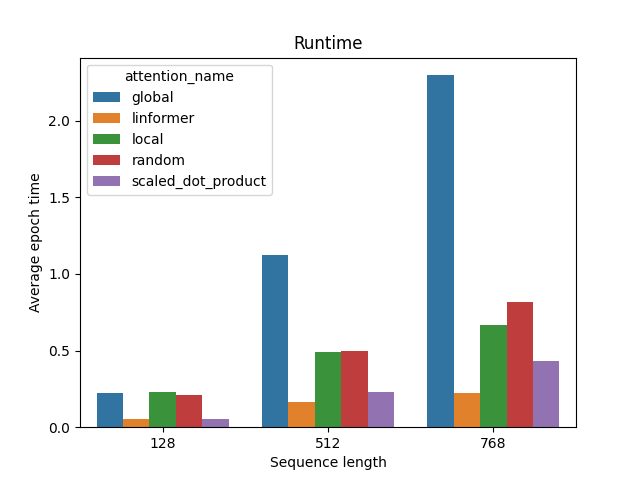
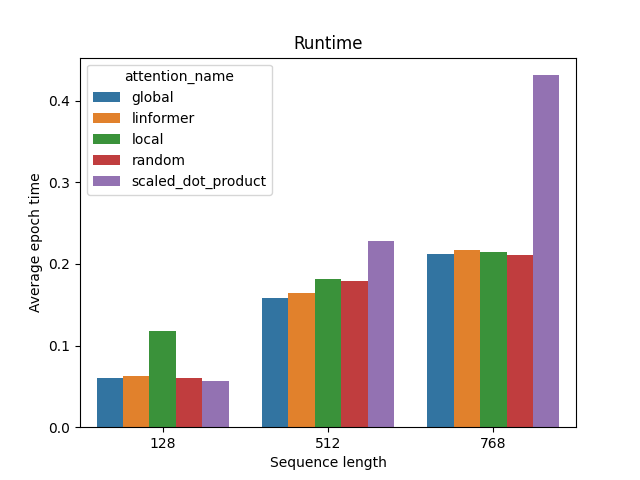
Enable sputnik in xformers blocks (#72)
* Enable sputnik kernels in xformers blocks

* Revert to previous value for density threshold

So that plots can be comparable, as the global attention depends on density_threshold for benchmarks

* Default device is now CPU

diff --git a/xformers/components/attention/global_tokens.py b/xformers/components/attention/global_tokens.py
@@ -5,9 +5,9 @@ import torch
 import torch.nn as nn
 
 from xformers.components.attention import (
-    _DENSITY_THRESHOLD,
     Attention,
     AttentionConfig,
+    maybe_sparsify,
     register_attention,
 )
 from xformers.components.attention.attention_patterns import global_token_pattern
@@ -52,12 +52,7 @@ class GlobalAttention(Attention):
 
         self.attn_drop = nn.Dropout(dropout, inplace=False)
         self.attention_mask = global_token_pattern(attention_query_mask[:, 0])
-        # Sparsity threshold, below which having a sparse matrix is more efficient
-        if (
-            torch.count_nonzero(self.attention_mask) / self.attention_mask.numel()
-            < _DENSITY_THRESHOLD
-        ):
-            self.attention_mask = self.attention_mask.to_sparse()
+        self.attention_mask = maybe_sparsify(self.attention_mask)
 
     def _adapt_mask_to_batch(self, q: torch.Tensor):
         # Make sure that the mask is on the right device, and has the right dimensions

diff --git a/xformers/components/attention/__init__.py b/xformers/components/attention/__init__.py
@@ -1,8 +1,11 @@
 from pathlib import Path
 from typing import Any, Dict
 
+import torch
+
 from xformers.utils import import_all_modules
 
+from ._sputnik_sparse import SparseCS
 from .base import Attention, AttentionConfig  # noqa
 
 # Credits: Classy Vision registry mechanism
@@ -13,6 +16,7 @@ ATTENTION_CLASS_NAMES = set()
 # Arbitrary threshold for now,
 # in between dense and sparse matrix algorithms for the attention mechanism
 _DENSITY_THRESHOLD = 0.05  # noqa
+_USE_SPUTNIK = True
 
 
 def build_attention(config: AttentionConfig):
@@ -63,6 +67,15 @@ def register_attention(name):
         return cls
 
     return register_attention_cls
+
+
+def maybe_sparsify(matrix):
+    # Sparsify if that makes sense
+    if torch.count_nonzero(matrix).item() / matrix.numel() > _DENSITY_THRESHOLD:
+        return matrix
+    if _USE_SPUTNIK:
+        return SparseCS(matrix)
+    return matrix.to_sparse()
 
 
 from .global_tokens import GlobalAttention  # noqa

diff --git a/xformers/components/attention/_sputnik_sparse.py b/xformers/components/attention/_sputnik_sparse.py
@@ -121,9 +121,13 @@ class _spmm(torch.autograd.Function):
 
 
 class SparseCS:
-    def __init__(self, matrix, device):
+    def __init__(self, matrix, device=None):
+        if device is None:
+            device = torch.device("cpu")
         if isinstance(matrix, torch.Tensor):
             matrix = matrix.cpu().numpy()
+        if matrix.ndim == 2:
+            matrix = matrix[None]
         assert matrix.ndim == 3
         (
             self.values,
@@ -140,6 +144,10 @@ class SparseCS:
         self._transp_info = _get_transpose_info(
             m, n, self.row_indices, self.row_offsets, self.column_indices
         )
+
+    @property
+    def device(self):
+        return self.values.device
 
     @classmethod
     def wrap(

diff --git a/xformers/components/attention/random.py b/xformers/components/attention/random.py
@@ -5,9 +5,9 @@ import torch
 import torch.nn as nn
 
 from xformers.components.attention import (
-    _DENSITY_THRESHOLD,
     Attention,
     AttentionConfig,
+    maybe_sparsify,
     register_attention,
 )
 from xformers.components.attention.attention_patterns import random_pattern
@@ -53,10 +53,7 @@ class RandomAttention(Attention):
     def _get_rand_mask(self, shape: torch.Size) -> torch.Tensor:
         sparsity = 1 - self.r
         mask = random_pattern(shape[1], sparsity=sparsity)
-
-        # Sparsity threshold, below that having a sparse matrix is more efficient
-        if self.r < _DENSITY_THRESHOLD:
-            mask = mask.to_sparse()
+        mask = maybe_sparsify(mask)
 
         return mask
 

diff --git a/xformers/components/attention/local.py b/xformers/components/attention/local.py
@@ -5,9 +5,9 @@ import torch
 import torch.nn as nn
 
 from xformers.components.attention import (
-    _DENSITY_THRESHOLD,
     Attention,
     AttentionConfig,
+    maybe_sparsify,
     register_attention,
 )
 from xformers.components.attention.attention_patterns import (
@@ -75,9 +75,7 @@ class LocalAttention(Attention):
         if self.causal:
             mask &= causal_1d_pattern(shape[1])
 
-        # Sparsify if that makes sense
-        if torch.count_nonzero(mask).item() / mask.numel() < _DENSITY_THRESHOLD:
-            mask = mask.to_sparse()
+        mask = maybe_sparsify(mask)
 
         return mask
 
